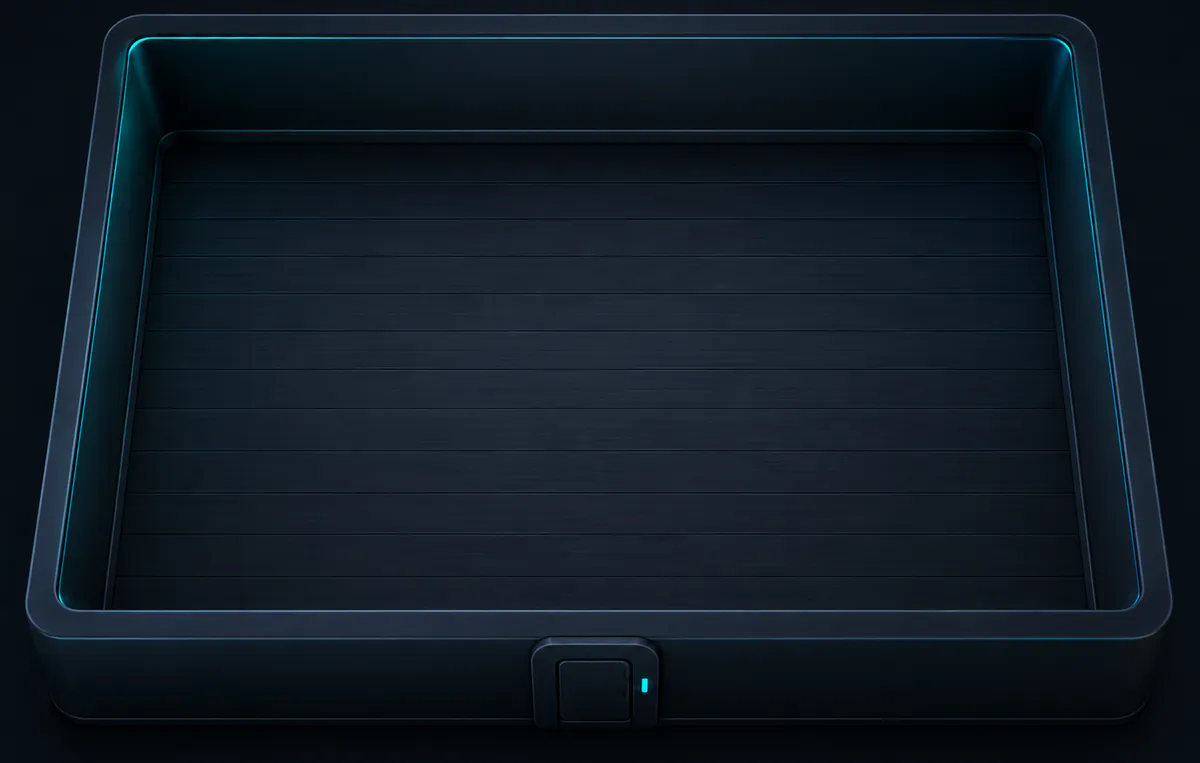
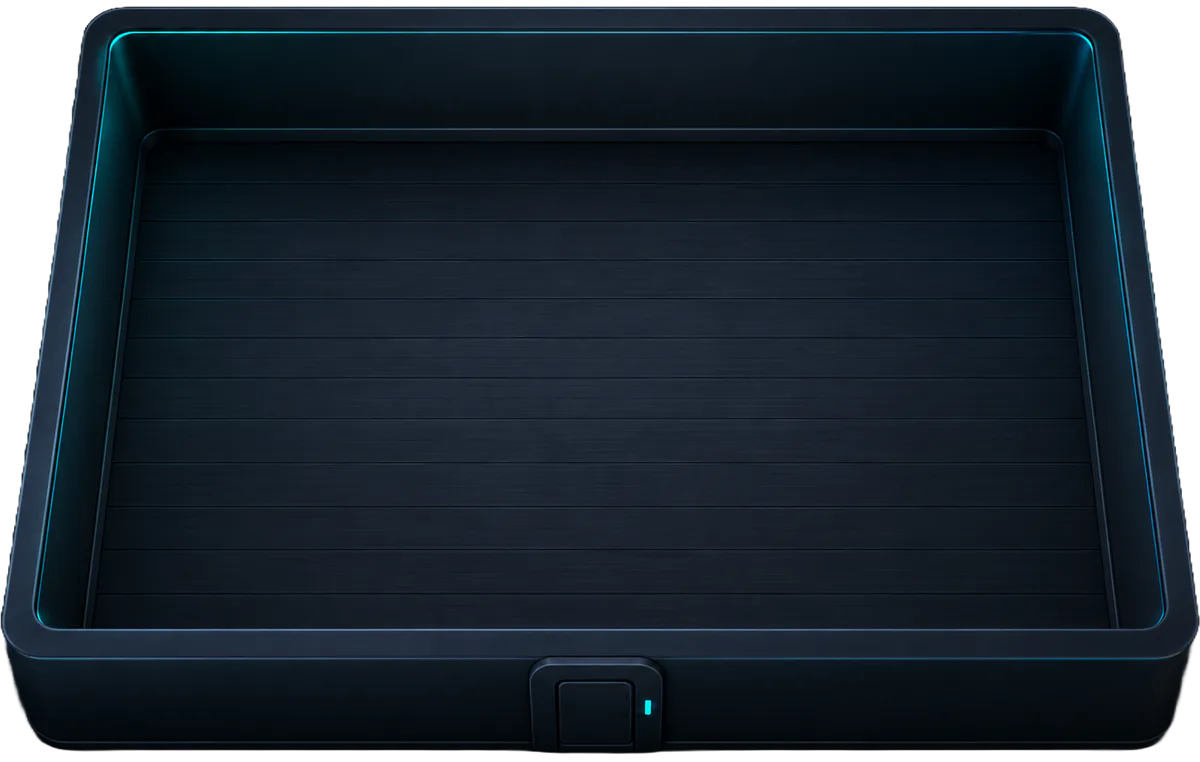
fix: refine responsive night room scene

Changed region(s): [[0.0, 0.0, 1.0, 1.0], [0.1542, 0.1509, 0.8325, 0.1811]]

diff --git a/kalendars/js/nightsplit.js b/kalendars/js/nightsplit.js
@@ -67,6 +67,8 @@
     +'<rect x="259" y="145" width="11" height="6" fill="#a18c76"/>'
     +'<rect x="260" y="153" width="13" height="6" fill="#a18c76"/>'
     +'<rect x="258" y="161" width="11" height="6" fill="#a18c76"/>'
+    +'<path class="pkt-caught-mouse-tail" d="M267 160 C274 166 276 174 271 183"/>'
+    +'<text class="pkt-caught-mouse" x="262" y="199" text-anchor="middle" dominant-baseline="central" transform="translate(0 398) scale(1 -1)">🐁</text>'
     +'</g>';
   PKT_CAT_SVG=PKT_CAT_SVG
     .replace('class="pkt-cat"','class="pkt-cat pkt-scratching"')
@@ -1083,7 +1085,7 @@
     var large=main?1200:640;
     var height=main?381:392;
     var base='assets/rooms/room-'+roomType+'-';
-    var rev='?v=20260822roomassets23';
+    var rev='?v=20260822roomassets28';
     return '<picture class="ns-room-image ns-room-image-'+layer+'" aria-hidden="true">'
       +'<source type="image/avif" srcset="'+base+small+'.avif'+rev+' 1x, '+base+large+'.avif'+rev+' 2x">'
       +'<img src="'+base+small+'.webp'+rev+'" srcset="'+base+small+'.webp'+rev+' 1x, '+base+large+'.webp'+rev+' 2x" width="'+small+'" height="'+height+'" alt="" decoding="async" draggable="false">'
@@ -1384,7 +1386,10 @@
         }
         // Pixel cat: same height as rooms, width proportional to 300:370 cat ratio.
         // SVG fills the box via CSS (width/height 100%), so no per-child sizing.
-        var lampH = narrow ? Math.min(roomsH, 110) : roomsH;
+        // Keep the mascot secondary to the room/history information. The SVG
+        // remains bottom-aligned, while the caught mouse stays attached to the
+        // animated paw because both live in the same SVG transform group.
+        var lampH = narrow ? Math.min(Math.round(roomsH * .82), 96) : Math.round(roomsH * .82);
         var lampW = Math.ceil(lampH * 300 / 370);
         if(cat) {
           cat.style.width  = lampW + 'px';

diff --git a/kalendars/css/nightsplit-brand.css b/kalendars/css/nightsplit-brand.css
@@ -546,6 +546,11 @@
 #nsPanel .ns-room-cat {
   position: relative !important;
   align-self: flex-end !important;
+  /* The rhythm labels sit beyond the SVG's right edge. Give that overhang a
+     real flex-layout gutter so Windows/DPI layouts cannot clip it at the
+     panel's overflow boundary; the SVG itself keeps its existing size. */
+  box-sizing: content-box !important;
+  padding-right: 58px !important;
   opacity: .88;
   filter: none !important;
   transform: none !important;
@@ -560,6 +565,21 @@
   transform-origin: 164px 174px !important;
   animation: pktScratchPaw 1.05s steps(2, end) infinite !important;
   will-change: transform !important;
+}
+#nsPanel .pkt-caught-mouse {
+  font-family: 'Fluent Emoji Gaps', 'Fluent Emoji Color', 'Segoe UI Emoji', 'Apple Color Emoji', sans-serif !important;
+  font-size: 48px !important;
+  font-variant-emoji: emoji !important;
+  shape-rendering: auto !important;
+  filter: drop-shadow(0 3px 3px rgba(0,0,0,.46)) !important;
+  pointer-events: none !important;
+}
+#nsPanel .pkt-caught-mouse-tail {
+  fill: none !important;
+  stroke: #c9a8a4 !important;
+  stroke-width: 3.2px !important;
+  stroke-linecap: round !important;
+  filter: drop-shadow(0 2px 2px rgba(0,0,0,.48)) !important;
 }
 #nsPanel .pkt-cat.pkt-scratching .pkt-eyes {
   animation: pktScratchLook 5.8s steps(1, end) infinite !important;
@@ -585,7 +605,9 @@
   top: 30% !important;
   right: auto !important;
   /* Cuts overlap the paw; labels continue into the clear space on its right. */
-  left: calc(88% - 12px) !important;
+  /* Compensate for the reserved 58px gutter, preserving the original visual
+     anchor at the scratching paw on MacBook and Windows alike. */
+  left: calc(88% - 63px) !important;
   display: inline-flex !important;
   flex-direction: row !important;
   align-items: center !important;

diff --git a/index.html b/index.html
@@ -166,7 +166,7 @@
     } catch(e) {}
   }
 
-  var CALENDAR_BUILD = '20260822roomassets23';
+  var CALENDAR_BUILD = '20260822roomassets28';
 
   window.addEventListener('message', function(event) {
     if (event.origin !== window.location.origin || !event.data || event.data.type !== 'minka:rollover-preview-trace') return;
@@ -716,7 +716,7 @@ body:not(.radio-idle) #radioIdleBtn{display:none;}
 
 <!-- Calendar embed -->
 <div id="calendarEmbed">
-  <iframe src="kalendars/index.html?radPlanUrl=https%3A%2F%2Fscript.google.com%2Fmacros%2Fs%2FAKfycbzYQ76F65up_d9Otw216oLG8UEfM_w9i0lAc1bqsk7x6EScmf2i7X_CgSMUpvIeANKcdQ%2Fexec&cv=20260822roomassets23" data-base-src="kalendars/index.html?radPlanUrl=https%3A%2F%2Fscript.google.com%2Fmacros%2Fs%2FAKfycbzYQ76F65up_d9Otw216oLG8UEfM_w9i0lAc1bqsk7x6EScmf2i7X_CgSMUpvIeANKcdQ%2Fexec&cv=20260822roomassets23" id="calIframe" title="Dežūru grafiks" loading="eager" allowtransparency="true" fetchpriority="high"></iframe>
+  <iframe src="kalendars/index.html?radPlanUrl=https%3A%2F%2Fscript.google.com%2Fmacros%2Fs%2FAKfycbzYQ76F65up_d9Otw216oLG8UEfM_w9i0lAc1bqsk7x6EScmf2i7X_CgSMUpvIeANKcdQ%2Fexec&cv=20260822roomassets28" data-base-src="kalendars/index.html?radPlanUrl=https%3A%2F%2Fscript.google.com%2Fmacros%2Fs%2FAKfycbzYQ76F65up_d9Otw216oLG8UEfM_w9i0lAc1bqsk7x6EScmf2i7X_CgSMUpvIeANKcdQ%2Fexec&cv=20260822roomassets28" id="calIframe" title="Dežūru grafiks" loading="eager" allowtransparency="true" fetchpriority="high"></iframe>
 </div>
 
 <!-- Compact brand loader. It stays up until the embedded schedule has painted. -->

diff --git a/kalendars/index.html b/kalendars/index.html
@@ -1627,7 +1627,7 @@ function _mkToast(msg, type) {
 <script src="js/header-weather.js?v=20260813headerfix1" defer></script>
 <script src="js/calendar_extras_v4.js?v=20260810layout2"></script>
 <script src="js/fatigue.js?v=20260816fatcache1"></script>
-<script src="js/nightsplit.js?v=20260822roomassets23" defer></script>
+<script src="js/nightsplit.js?v=20260822roomassets28" defer></script>
 <script src="js/monthcal.js?v=20260814uxpass1" defer></script>
 <script src="js/design_v1.js" defer></script>
 <script src="js/theme.js?v=20260724f" defer></script>
@@ -21438,7 +21438,7 @@ html body .side-panel .mk-duty-strip.mk-duty-avatar-strip {
 
 <!-- Loaded last on purpose: the night split is an overlay and this small,
      local stylesheet replaces the older visual layers without touching logic. -->
-<link rel="stylesheet" href="css/nightsplit-brand.css?v=20260822roomassets23">
+<link rel="stylesheet" href="css/nightsplit-brand.css?v=20260822roomassets28">
 
 </body>
 </html>

diff --git a/sw.js b/sw.js
@@ -1,4 +1,4 @@
-const CACHE = 'minka-4.6.448-room-assets23';
+const CACHE = 'minka-4.6.449-room-assets28';
 const APP_ROOT = new URL('./', self.registration.scope);
 const appUrl = relativePath => new URL(relativePath, APP_ROOT).href;
 
